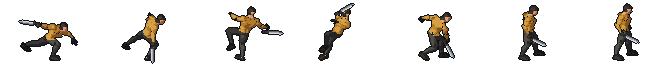
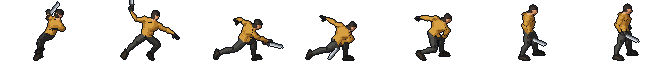
Revert "3타를 찌르기로, 크게 내려치기는 연속 베기 해제 전용(finisher)"
This reverts commit c3a54489f6bbdab6fc3f3d6b3b6c7b9c68d3d5e6.

diff --git a/tools/blender/render_character.py b/tools/blender/render_character.py
@@ -31,15 +31,14 @@ PASSES = [
      ["idle=4", "sneak_idle=4", "walk=12", "sneak=12", "run=12", "hurt=3", "down=5", "pickup=4"],
      ["--shift-for", "down=16"]),
     (LIB2,
-     # Machete combo: 1st a quick sweep (B, wind-up cut off), 2nd the rising cut (A from its
-     # crouch on, fewer frames), 3rd a thrust (C up to the stab, its end as the recovery) -
-     # 2026-11-13 "the 3rd hit is too dynamic, make it like the 1st and 2nd".
-     # finisher: the big overhead chop (the finisher of the pack's own Sword_Regular_Combo),
-     # now only for the time-warp release that looses the flurry.
+     # Machete combo (user order 2026-11-12, "1st sweep, 2nd rising cut, 3rd chop down"):
+     # 1st a quick sweep (B, wind-up cut off), 2nd the rising cut (A from its crouch on,
+     # fewer frames), 3rd the finisher of the pack's own combo (Sword_Regular_Combo: after
+     # A and B it raises the blade overhead and steps in with a diagonal chop), so all three
+     # come from one animated combo and flow together (2026-11-13: Sword_Attack did not).
      ["swing=Sword_Regular_B@2-13,Sword_Regular_B_Rec", "swing2=Sword_Regular_A@4-,Sword_Regular_A_Rec@7-23",
-      "swing3=Sword_Regular_C@0-8,Sword_Regular_C@30-48",
-      "finisher=Sword_Regular_Combo@31.5-34.5,Sword_Regular_Combo@37.6-41,Sword_Regular_Combo@51-72"],
-     ["swing=4,3", "swing2=4,3", "swing3=4,3", "finisher=2,2,3"],
+      "swing3=Sword_Regular_Combo@31.5-34.5,Sword_Regular_Combo@37.6-41,Sword_Regular_Combo@51-72"],
+     ["swing=4,3", "swing2=4,3", "swing3=2,2,3"],
      []),
 ]
 

diff --git a/src/weapon.py b/src/weapon.py
@@ -22,9 +22,8 @@ Swing = namedtuple("Swing", "sheet duration contact damage reach depth arc push 
 # (combo finisher) that lands one feel class harder (hit-stop, shake, number; see hit_feel);
 # step: px the attacker steps forward into the blow (the art's lunge is pinned in place).
 
-Weapon = namedtuple("Weapon", "name swings combo_window sneak_multiplier finisher", defaults=(None,))
-# combo_window: seconds after a swing's recovery starts in which a click continues the combo;
-# finisher: the big blow the time-warp release swings (it looses the flurry, flurry.py).
+Weapon = namedtuple("Weapon", "name swings combo_window sneak_multiplier")
+# combo_window: seconds after a swing's recovery starts in which a click continues the combo.
 
 MACHETE = Weapon(
     name="마체테",
@@ -32,11 +31,10 @@ MACHETE = Weapon(
         # 1st and 2nd: quick, light blows; 3rd: the big chop with a real wind-up.
         Swing("swing", 0.46, 0.14, 2, 42, 20, pi / 3, 110, 0.72, False),    # quick sweep
         Swing("swing2", 0.50, 0.16, 2, 46, 22, pi / 3, 110, 0.73, False),   # rising cut
-        Swing("swing3", 0.50, 0.20, 6, 46, 22, pi / 3, 260, 0.70, True),    # thrust (combo end)
+        Swing("swing3", 0.68, 0.28, 6, 50, 24, pi / 3, 340, 0.74, True),    # finisher: overhead chop (in place)
     ),
     combo_window=0.25,
     sneak_multiplier=3,
-    finisher=Swing("finisher", 0.68, 0.28, 6, 50, 24, pi / 3, 340, 0.74, True),   # overhead chop
 )
 
 IMPACT_TIME = 0.18

diff --git a/src/player.py b/src/player.py
@@ -139,12 +139,12 @@ class Player:
             self.pick_up()
 
     def start_finisher(self):
-        """The time-warp release: the weapon's finisher, marked to loose a flurry."""
+        """The time-warp release: the weapon's last swing, marked to loose a flurry."""
         if self.state not in FREE_STATES:
             return False
         self.attack()
-        index = len(self.weapon.swings) - 1          # no combo continues after it
-        self.swing = weapon.MeleeAttack(self.weapon.finisher, (self.direction, 0), index)
+        index = len(self.weapon.swings) - 1
+        self.swing = weapon.MeleeAttack(self.weapon.swings[index], (self.direction, 0), index)
         self.swing.flurry = True
         return True
 
@@ -322,7 +322,7 @@ class Player:
     def draw_body(self):
         if self.charging:
             # The finisher's raised blade, held while the charge builds.
-            finisher = self.weapon.finisher
+            finisher = self.weapon.swings[-1]
             contact = finisher.contact / finisher.duration
             self.draw_pose(finisher.sheet, contact * 0.8, contact)
             return

diff --git a/assets/characters/CHARACTER_WORKFLOW.md b/assets/characters/CHARACTER_WORKFLOW.md
@@ -131,8 +131,7 @@
 | sneak | `Walk_Loop` 위에 `Crouch_Idle_Loop`를 30% 얹음(`Walk_Loop+Crouch_Idle_Loop*0.3`) | 12 | 2026-11-11 30%로 조정(처음 40%), 6→12칸. 섞을 때는 COMBINE(회전을 곱해 더함)을 써야 함. 단순 평균(REPLACE)은 다리가 뒤로 뒤집힘 |
 | swing (1타) | `Sword_Regular_B@2-13` 4칸 + 복귀 `Sword_Regular_B_Rec` 3칸 (두 번째 팩 UAL2) | 7 | 빠른 가로 베기(준비 동작 잘라냄). 맞는 칸 인덱스 1, `hold` 0.35. 2026-11-12 "첫 번째 동작을 가로 베기로" → 다시 1타 |
 | swing2 (2타) | `Sword_Regular_A@4-` 4칸 + 복귀 `Sword_Regular_A_Rec@7-23` 3칸 | 7 | 올려 베기: 숙인 자세에서 칼이 앞으로 올라감. 맞는 칸 인덱스 1, `hold` 0.35. 2026-11-12 "2타 올려 베기"로 3타에서 옮기며 6칸 → 4칸 |
-| swing3 (3타) | `Sword_Regular_C@0-8` 4칸 + `@30-48` 3칸 (두 번째 팩 UAL2) | 7 | 찌르기: 뒤로 빼기 → 내리기 → 앞으로 찌르기. 맞는 칸 인덱스 2, `hold` 0.35. 2026-11-13 "3타가 너무 다이내믹, 1·2번과 비슷하게"로 연타 마무리 내려치기에서 바꿈 |
-| finisher (연속 베기 해제) | `Sword_Regular_Combo@31.5-34.5` 2칸 + `@37.6-41` 2칸 + `@51-72` 3칸 | 7 | 머리 위로 들었다 내려치기(동작 팩 3연타의 마무리). 우클릭을 떼면 이 동작과 함께 연속 베기가 나간다. 맞는 칸 인덱스 2, `hold` 0.3, `windup` [1, 1.8], `trail_from` 1 |
+| swing3 (3타) | `Sword_Regular_Combo@31.5-34.5` 2칸 + `@37.6-41` 2칸 + `@51-72` 3칸 (두 번째 팩 UAL2) | 7 | 마무리 내려치기: 동작 팩의 3연타(`Sword_Regular_Combo` = 올려 베기 A → 가로 베기 B → 마무리)의 마지막 타. 2타가 끝난 칼을 든 자세에서 이어서 머리 위로 들었다(버팀) 파고들며 앞으로 내려침. 맞는 칸 인덱스 2, `hold` 0.3, `windup` [1, 1.8], `trail_from` 1. 2026-11-13 "3번째 동작 흐름이 1·2번과 안 어울린다"로 `Sword_Attack`(첫 번째 팩, 다른 화풍의 동작)에서 바꿈 |
 | run | `Jog_Fwd_Loop` | 12 | 2026-11-12 뛰기. 원래 5.87m/s(한 바퀴 0.92초에 5.39m), 게임 4.8m/s에서 걸은 거리로 재생 |
 | sneak_idle | `Idle_Loop` 위에 `Crouch_Idle_Loop`를 40% 얹음 | 4 | Shift만 누르고 서 있을 때. 시트가 없는 캐릭터는 `sneak` 첫 칸으로 대신함(`character_look.FALLBACK`) |
 | hurt | `Hit_Chest` | 3 | |
@@ -297,4 +296,3 @@
 | 2026-11-12 | 사용자 지시 "3번 동작이 쥬시하지 않다" | 3타를 `@0-7`(서기·빼기·머리 위) + `@10-13`(파고들기·내려침) + 복귀로 다시 자름. 맞는 칸을 칼이 땅까지 내려간 칸으로. 점검: ① 머리 위 칸이 가장 오래 보임 ② 파고드는 칸은 한순간 ③ 검로가 머리 위 → 앞 → 땅으로 이어짐 ④ 타격 별이 1·2타보다 큼. 게임 화면 `previews/chop_ingame.png` |
 | 2026-11-13 | 사용자 지시 "시안 만들기"(적 콘셉트: 피폭 한계를 넘어 죽은 사람이 변이) | 피폭체 시안 1 "막 변한 직장인"(`costumes/infected_office.json` → `assets/characters/infected/`). 주인공과 같은 기본 몸 + 동작 팩의 좀비 동작(`Zombie_Idle_Loop`·`Zombie_Walk_Fwd_Loop`·`Zombie_Scratch`) + 맞기·쓰러짐. 2D 옷 그리기 도구가 의상 파일의 `clothes` 블록(색, 맨손, 후드·주머니 끔, 상처·얼룩 위치)을 읽도록 일반화, `render_character.py`에 의상별 동작 묶음(`actions`: hero / infected). 처음엔 상처·얼룩이 대칭 마름모라 십자·배지처럼 읽힘 → 손으로 정한 비대칭 모양(찢어진 틈 + 어두운 테두리, 흘러내린 얼룩)으로 고침. 주인공 시트는 픽셀 단위로 그대로임을 확인. 미리보기 `previews/infected_office_sheets.png`, `infected_office_compare.png`. **아직 게임에 연결하지 않음**(피폭체 코드는 예전 시트를 씀) |
 | 2026-11-13 | 사용자 지시 "공격 3번째 동작 흐름이 1, 2번 동작이랑 어울리지 않습니다. 다른 걸 찾아보세요" | 후보 4개(`Sword_Regular_Combo`, `Sword_Dash_RM`, `Sword_Regular_C`, 지금 `Sword_Attack`)를 그려 비교. `Sword_Regular_Combo`가 동작 팩 자체의 3연타이고 앞 두 타가 우리 1·2타(A·B)와 같아, 그 마지막 타를 3타로. 처음 자른 구간은 칼이 앞에 닿는 칸(37~38프레임)을 건너뛰어 다시 자름. 점검: ① 2타 마지막 칸(칼을 든 자세)과 3타 첫 칸이 이어짐 ② 맞는 칸에서 칼이 앞 아래 ③ 검로가 머리 위 → 앞. 미리보기 `previews/combo_sheets.png`, 게임 화면 `previews/chop_ingame.png` |
-| 2026-11-13 | 사용자 지시 "3타 공격이 너무 다이내믹함, 1·2번과 유사하게" → (찌르기 이미지 확인) → "일단 가자" | 3타를 찌르기(`Sword_Regular_C@0-8` + 복귀)로, 크게 내려치기는 새 시트 `finisher`로 옮겨 연속 베기 해제에만 씀. 점검: ① 1·2·3타 크기와 속도가 비슷 ② 찌르기 맞는 칸에서 칼이 앞 ③ 연속 베기 해제는 여전히 크게 내려침. 미리보기 `previews/combo_sheets.png` |

diff --git a/README.md b/README.md
@@ -31,9 +31,9 @@ python src/main.py
 
 피폭체와는 실시간으로 싸웁니다(2026-11-12 턴제에서 전환, [PRD](PRD.md) v3.0).
 
-- `좌클릭`: 마체테로 벱니다. 휘두르는 중에 다시 누르면 가로 베기 → 올려 베기 → 찌르기 3연타로 이어집니다. 1·2타는 빠르고 가볍고, 3타 찌르기가 가장 셉니다(2·2·6).
+- `좌클릭`: 마체테로 벱니다. 휘두르는 중에 다시 누르면 가로 베기 → 올려 베기 → 내려치기 3연타로 이어집니다. 1·2타는 빠르고 가볍고, 3타는 칼을 머리 위로 들었다가 크게 내려쳐 가장 셉니다(2·2·6).
 - 피폭체 머리 위에 `!`가 뜨면 곧 할퀴기가 옵니다. `Space` 대시 중에는 맞지 않으니 그 순간 피하세요. 맞으면 체력이 2 줄고 뒤로 밀립니다.
-- **변이 가속(우클릭):** 우클릭을 누르는 동안 주변 시간이 10% 속도로 느려지고, 주인공은 제자리에서 기를 모읍니다(0.3·0.8·1.4초에 1·2·3단). 떼면 내려치기와 함께 앞쪽에 연속 베기가 그어졌다가 하나씩 터집니다(1단 4번·2m, 2단 7번·3m, 3단 12번·4m). 모으는 중에는 좌클릭이 막히고, Space로 공격 없이 풀며 피할 수 있습니다. 누르는 동안 **피폭 수치**가 초당 15%씩 오르고, 수치가 높을수록 연속 베기 피해가 커집니다(30% 이상 1.3배, 60% 이상 1.6배, 90% 이상 2배). 100%에 닿으면 가속이 강제로 풀리고 체력 4를 잃으며 수치가 70%로 내려갑니다. 90% 이상에서는 2초마다 체력 1이 깎이고, 쓰지 않으면 1.5초 뒤부터 초당 2%씩 내려갑니다.
+- **변이 가속(우클릭):** 우클릭을 누르는 동안 주변 시간이 10% 속도로 느려지고, 주인공은 제자리에서 기를 모읍니다(0.3·0.8·1.4초에 1·2·3단). 떼면 내려치기와 함께 앞쪽에 연속 베기가 그어졌다가 하나씩 터집니다(1단 4번·2m, 2단 7번·3m, 3단 12번·4m). 모으는 중에는 좌클릭이 막히고, Space로 공격 없이 풀며 피할 수 있습니다. 누르는 동안과 벨 때마다 **피폭 수치**가 오르고, 수치가 높을수록 연속 베기 피해가 커집니다(30% 이상 1.3배, 60% 이상 1.6배, 90% 이상 2배). 100%에 닿으면 가속이 강제로 풀리고 체력 4를 잃으며 수치가 70%로 내려갑니다. 90% 이상에서는 2초마다 체력 1이 깎이고, 쓰지 않으면 1.5초 뒤부터 초당 2%씩 내려갑니다.
 - **완벽 회피:** 할퀴기가 들어오기 직전(0.2초 안)에 대시하면 하얀 고리와 함께 잠깐 느린 화면이 되고, 1.2초 안에 맞힌 다음 공격이 **반격**(피해 2배)이 됩니다. 반격 시간에 공격하면 피한 피폭체에게 자동으로 파고들며(최대 2m) 벱니다.
 - 들키기 전에 가까이 다가가 휘두르면 **기습**으로 3배 피해를 줍니다.
 - 맞힐 때마다 피해 숫자가 뜨고, 피해가 클수록 멈칫하는 시간과 화면 흔들림이 커집니다(모든 공격에 공통).

diff --git a/PRD.md b/PRD.md
@@ -19,7 +19,6 @@
 
 - **v3.0 (2026-11-12) — 전투를 실시간으로 되돌림.** 턴제(BG3식)의 재미는 매 턴 고를 선택지(주문·기술·환경·동료 조합)가 많은 데서 나오는데, 2D 학기 과제의 콘텐츠량으로는 "다가가 때리고 주사위를 기다리는" 반복이 되어 재미가 반감된다고 판단했다(사용자 결정). 1차 발표대로 **실시간 근접 전투**(공격 예고를 보고 회피·반격)로 간다. 선택의 재미는 전투 밖으로 옮긴다: 싸울지 피할지(은신·기습·우회), 생존자 관계. 혼자 싸우는 주인공으로 시작하고 동료는 지원 역할로 다시 정한다. 주무기는 **마체테**(빠른 베기 연타, 2026-11-12 결정). 무기는 데이터로 만들어 나중에 소방 도끼·쇠파이프 등을 더한다. 턴제 코드는 지우지 않고 보관한다. 아래 12절(턴제 전투)은 실시간 설계로 다시 쓸 때까지 참고용이다.
 - **v3.1 연타 리듬 (2026-11-12, 사용자 지시)** — 연타는 뒤로 갈수록 동작이 커진다. 1타 가로 베기·2타 내지르기는 빠르고 가벼운 타(처음 0.32·0.34초 → v3.2에서 0.4초, 피해 2), 3타 올려 베기는 숙였다가 크게 베어 올리는 마무리(0.66초, 0.26초에 닿음, 피해 6, 밀어내기 2배 이상). 마무리 타는 무기 데이터의 `heavy` 표시로 히트스톱·흔들림·숫자가 한 단계 커진다(모든 무기 공통 규칙, `hit_feel.weight`). 기습은 첫 타 기준 2×3=6.
-- **v3.15 3타는 찌르기, 크게 내려치기는 연속 베기 전용 (2026-11-13, 사용자 "3타 공격이 너무 다이내믹함, 1·2번과 유사하게")** — 3타 찌르기(0.5초, 0.2초에 닿음, 피해 6), 크게 내려치기는 무기 데이터의 `finisher`(우클릭 해제 때만). 평소 연타는 차분하게, 변이 가속은 화려하게 나뉜다.
 - **v3.14 우클릭 차징과 피폭 게이지 (2026-11-13, 사용자 결정, 차징 중 동작은 논의 중)** — "우클릭으로 차징이 가능해, 다만 게이지가 있어서 점점 올라가, 그럴수록 세지는데, 게이지가 올라갈수록 시야 흐려짐 같은 디버프가 생기는 거지." → "게이지는 피폭 수치, 나머지는 말한 대로."
   - **게이지 = 피폭 수치.** 차징하는 동안 오르고(크게 맞을 때도 조금), 공격 뒤에도 남는다. 가만히 두면 아주 천천히 내려가고, 억제 주사기로 크게 내린다.
   - **단계:** 0~30% 기본 / 30~60% 차징 공격 더 셈 + 화면 가장자리 어두워짐(시야 좁아짐) / 60~90% 훨씬 셈 + 화면이 초록빛으로 흐려지고 일렁임 / 90~100% 최대 + 체력이 서서히 깎임 / 100% 피폭체가 됨(게임 오버) 또는 큰 체력 손실 후 강제로 낮아짐(정할 것).

diff --git a/PLAN.md b/PLAN.md
@@ -147,8 +147,6 @@
 
 - **2026-11-12 · 공기·총소리 요소 제외** — "어떤 게 좋다고 생각하세요?"에 A 중심·옆 시점 유지·어둠+손전등을 추천 → "공기 요소는 제외하죠, 총소리가 적을 부르는 요소도 제외하죠." 공기 잔량은 계속 빼고(2026-11-10 결정 유지), 총소리로 적을 부르는 규칙도 넣지 않는다.
 
-- **2026-11-13 · 3타 찌르기** — "3타 공격이 너무 다이내믹함, 1·2번과 유사하게 만들면 될 것 같다" → "찌르기 이미지?" → "일단 가자." 3타는 찌르기, 크게 내려치기는 연속 베기 해제 전용. PRD v3.15.
-
 - **2026-11-13 · 우클릭 차징 + 피폭 게이지** — "스킬 같은 전투 방식을 어떻게 해야 재미있을까?" → "우클릭으로 차징, 게이지가 올라갈수록 세지고 시야 흐려짐 같은 디버프" → 구현 시작 중 "나랑 기획을 어떻게 할지 우선 이야기를 해 보자"로 멈춤 → "게이지는 피폭 수치, 게이지는 말한 대로, 차징 중은 어떻게 할지 생각해 보자." → "차징을 할 때 주변 시간이 느려지는 거지, 산데비스탄처럼" → "공격은 나)가 좋을 것 같음"(떼면 돌진하며 베고 지나가기) → "주변 시간은 거의 완전히 멈춰야 함, 전투 도중 피할 때도 쓰게." → (짧게 누르면 회피 안에) "컨트롤이 어려울 것 같은데" → "그냥 우클릭을 누르면 바로 차징, 떼면 바로 공격." → "멈췄을 때 걸어 다닌다고? 아냐… 시간을 느리게, 그동안 공격하고 풀리면서 그 공격들이 들어가는 거지" → A안(제자리 모으기 + 돌진)과 B안(느린 시간 중 연타, 풀릴 때 한꺼번에 터짐) 비교 → **"B안으로 가자."** → "주인공도 살짝 빨라지면 좋겠다" → 구현 계획 설명 후 "ㄱㄱ", "그거 이외에도 아까 이야기 나눴던 것들 싹 다 진행하세요", "한꺼번에 다 하지 말고 나눠서 단계를 했으면 보여 주면 좋겠습니다." → 1단계(가속·쌓기·터뜨리기)부터 단계마다 보여 드리고 진행 → 1단계를 보고 "아쉬운데" → "직접 때리는 과정을 생략하고 차징이 끝나면 그 자리에 연속 베기가 뜨게" → "ㅇㅇ" → 연속 베기로 바꿈. PRD v3.14.
 
 - **2026-11-13 · Shift 달리기, Ctrl 은신** — "은신은 Ctrl로 하고 Shift를 달리기로 하죠." Space는 대시만. HUD 안내·README·PRD 갱신.

diff --git a/docs/DEVLOG.md b/docs/DEVLOG.md
@@ -119,4 +119,3 @@
 - **우클릭 차징 + 피폭 게이지(기획 중):** 우클릭을 누르고 있으면 차징, 게이지(=피폭 수치)가 오를수록 세지지만 시야가 흐려지는 등 디버프. 게이지 규칙은 정했고 차징 중 동작을 함께 정하는 중. 코드는 아직 바꾸지 않았다.
 - **변이 가속 1단계:** 우클릭을 누르는 동안 세상 10%, 주인공 1.3배. 그동안 벤 공격은 적 몸에 초록 베인 자국으로 쌓이고, 떼면 하나씩 빠르게 터진다. 피폭 수치가 오르고 단계에 따라 터지는 피해가 커진다. 게임 시간을 "세상"과 "주인공" 두 개로 나눠서 적·이펙트는 손대지 않고 느려지게 했다. 자동 점검: 시간 비율, 가속 중 피해 없음, 3연격 저장, 해제 시 합계 피해, 100% 한계 처리.
 - **연속 베기로 변경:** 1단계를 보고 "아쉽다"는 의견. 원인(시간이 느려진 게 안 느껴짐, 자국이 약함, 터지는 순간이 평범함)을 정리하고, 사용자 안대로 직접 베는 과정을 없앴다. 우클릭 동안 제자리에서 1~3단으로 모으고, 떼면 내려치기 → 하얀 번쩍 → 앞 범위에 베기 선이 순식간에 그어졌다가 하나씩 터진다. 시간이 느려질 때 화면이 푸르게 바래고 가장자리가 어두워지며, 주인공 주변에 단계별 초록 고리. 처음엔 베기 선이 두꺼운 판자처럼 흩어져 보여 가늘고 끝이 빛나는 선으로 바꾸고 대부분 적을 관통하게 했다.
-- **3타 찌르기:** 3타가 너무 다이내믹하다는 의견으로 1·2타와 비슷한 크기의 찌르기로 바꾸고, 크게 내려치기는 무기 데이터의 `finisher`로 옮겨 연속 베기 해제에만 쓴다.
